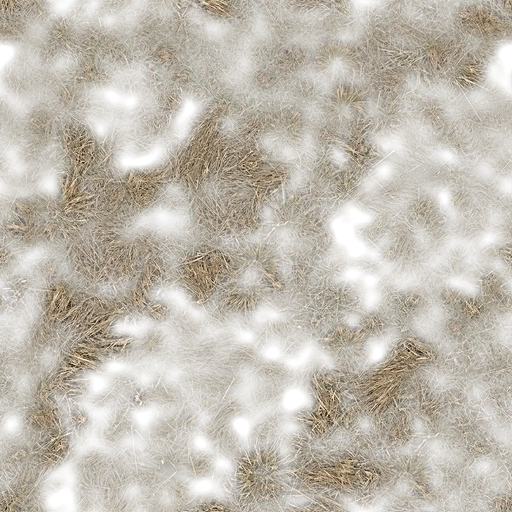
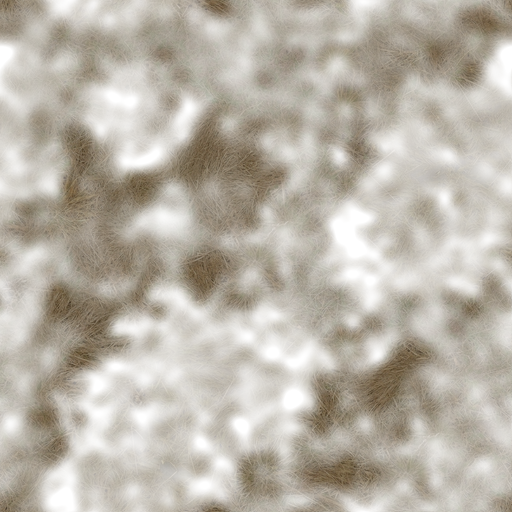
feat(battle): лука без великих плям, другий її варіант і багно з фактурою
Лука: плями соломи й зелені 2–4 м зведено до 0,15 — у повторі 12 м
вони складались у візерунок; пучки ~0,1–0,2 м і найдрібніше зерно
вдвічі тихіші, бо на далекому зумі давали густі цятки. Другий варіант
шару — інший знімок луки (meadow_2), а не копія першого.

Рілля: різниця яскравості з лукою вдвічі менша (L* 29 проти 33),
борозни трохи виразніші, тон тепліший, без сіро-бузкового відливу.

Багно: скан майже гладкий, тож лягав рівною сірою плямою. Тепер
контраст L 2,6 після зняття світлих плям 1–3 м (інакше вони складаються
в решітку), тон теплий вологий ґрунт. Обидва числа — у таблиці CC0
terrain_tex.py, тож `cc0` відтворює шар.

diff --git a/tools/terrain_tex.py b/tools/terrain_tex.py
@@ -163,12 +163,14 @@ def delines(a, size=21, thr=2.0, flatten=0.0, every=False):
 # Метри повтору дублює GroundSurface.MACRO_M (game/battle/ground_surface.gd) — міняти обидва разом.
 # CC0-скани Poly Haven (ground-texture-research.md): шар → (папка, метри повтору, L*, (a*, b*),
 # лінії: 0 — не чіпати, 1 — прибрати знайдені лінії, 2 — смугозагороджувальний фільтр усюди
-# (асфальт)[, контраст L]. Бруківка: контраст 1.6 — шви темніші, інакше камінь 0.2 м (3 px за найбільшого
-# наближення) не відрізнити від гравію; скан 4 м, але повтор 3 м (камінь ~15 см, як справжня
-# кладка) — так у GroundSurface.MACRO_M.
+# (асфальт)[, контраст L[, зняти плями ширші за sigma px]]. Бруківка: контраст 1.6 — шви темніші,
+# інакше камінь 0.2 м (3 px за найбільшого наближення) не відрізнити від гравію; скан 4 м, але повтор
+# 3 м (камінь ~15 см, як справжня кладка) — так у GroundSurface.MACRO_M. Багно: скан майже гладкий,
+# тож без контрасту 2.6 воно лягає рівною сірою плямою; світлі плями 1–3 м перед тим знято (16 px),
+# інакше з таким контрастом вони складаються в решітку.
 CC0 = {
     "dirt": ("aerial_ground_rock", 20.0, 35.0, (0.8, 3.0), 0),
-    "mud": ("dirt_aerial_03", 25.0, 30.0, (1.5, 4.5), 1),
+    "mud": ("dirt_aerial_03", 25.0, 26.0, (3.0, 9.0), 1, 2.6, 16.0),
     "hill": ("coast_land_rocks_01", 20.0, 33.0, (0.5, 6.0), 0),
     "bank": ("coast_sand_05", 25.0, 28.0, (1.0, 3.8), 0),
     "road": ("aerial_asphalt_01", 30.0, 28.0, (0.0, 1.0), 2),
@@ -255,7 +257,7 @@ def main(argv):
             contrast = spec[5] if len(spec) > 5 else 1.0
             a = np.asarray(Image.open(f"{argv[1]}/{src}/diff_2k.jpg").convert("RGB").resize((512, 512), Image.LANCZOS), np.float32)
             if lines:
-                a = delines(a, every=lines == 2)
+                a = delines(a, every=lines == 2, flatten=spec[6] if len(spec) > 6 else 0.0)
             a = tone(a, L, ab, contrast=contrast)
             lr, tb = edge_diffs(tie(a.copy()))
             if lr > LIMIT or tb > LIMIT:
